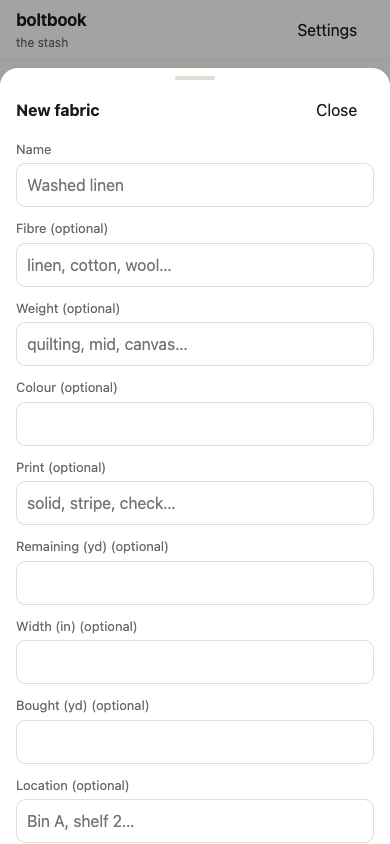
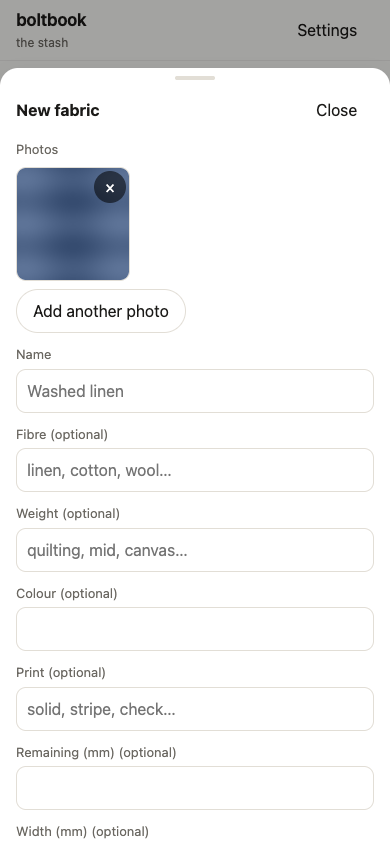
fix(client): the photo leads the fabric form, not trails it
The design decision was camera-first — the primary action opens the camera and
the form follows — but the photo field was rendered after every other field, so
on a phone you took a photo and then scrolled past twelve fields to see it.

EntitySheet gains a "leading" slot (above the fields) alongside the existing
"children" (below them, for the views and allocation editors, where detail
properly follows identity). The fabric photo goes in the leading slot.

Re-shot 03-add-fabric.png. 132 tests, tsc clean.

Changed region(s): [[0.0308, 0.154, 0.4923, 1.0]]

diff --git a/client/screens/StashScreen.tsx b/client/screens/StashScreen.tsx
@@ -300,19 +300,22 @@ export function StashScreen() {
             setSheet(null)
             setPendingPhoto(null)
           }}
-        >
-          {kind === 'fabric' && (
-            <PhotoField
-              fabricId={sheet.mode === 'edit' ? sheet.id : null}
-              photos={photos}
-              pendingFile={pendingPhoto}
-              onPendingFile={setPendingPhoto}
-              onChanged={() => void reload()}
-              onRequestPhoto={requestPhoto}
-            />
-          )}
-          {kind === 'fabric' && photoError && <p className="error">{photoError}</p>}
-        </EntitySheet>
+          leading={
+            kind === 'fabric' ? (
+              <>
+                <PhotoField
+                  fabricId={sheet.mode === 'edit' ? sheet.id : null}
+                  photos={photos}
+                  pendingFile={pendingPhoto}
+                  onPendingFile={setPendingPhoto}
+                  onChanged={() => void reload()}
+                  onRequestPhoto={requestPhoto}
+                />
+                {photoError && <p className="error">{photoError}</p>}
+              </>
+            ) : undefined
+          }
+        />
       )}
 
       <input

diff --git a/client/components/EntitySheet.tsx b/client/components/EntitySheet.tsx
@@ -14,11 +14,13 @@ interface EntitySheetProps {
   onSave: (values: Record<string, unknown>) => Promise<void>
   onDelete?: () => Promise<void>
   onClose: () => void
-  /** Extra sections below the fields, e.g. a fabric's photos. */
+  /** Above the fields: what you provide first. The photo of a fabric leads. */
+  leading?: ReactNode
+  /** Below the fields: detail that follows the identity, e.g. views, allocation. */
   children?: ReactNode
 }
 
-export function EntitySheet({ title, fields, record, onSave, onDelete, onClose, children }: EntitySheetProps) {
+export function EntitySheet({ title, fields, record, onSave, onDelete, onClose, leading, children }: EntitySheetProps) {
   const { unit } = useUnit()
   const [values, setValues] = useState<Record<string, FormValue>>(() => {
     const initial: Record<string, FormValue> = {}
@@ -70,6 +72,8 @@ export function EntitySheet({ title, fields, record, onSave, onDelete, onClose, 
   return (
     <Sheet title={title} onClose={onClose}>
       <form onSubmit={submit}>
+        {leading}
+
         {fields.map((spec) => {
           const value = values[spec.name]
           const id = `field-${spec.name}`

diff --git a/docs/design-brief.md b/docs/design-brief.md
@@ -167,9 +167,9 @@ threshold, so a vertical scroll is never stolen.
 
 ## 7. Components
 
-- **Adding a fabric is camera-first** — the primary action opens the camera; the form follows
-  with what the photo gives, and every field is skippable, because a photo and a name is a
-  valid bolt.
+- **Adding a fabric is camera-first** — the primary action opens the camera, the photo leads the
+  form (it sits above the fields, not below them), and every field is skippable, because a photo
+  and a name is a valid bolt.
 - **The fabric row** — swatch/photo thumb · name · `fibre · width` · **remaining length** ·
   location. The remaining length is the number the whole app exists to answer.
 - **The yardage meter** — a thin bar: remaining against original, with the reserved slice
